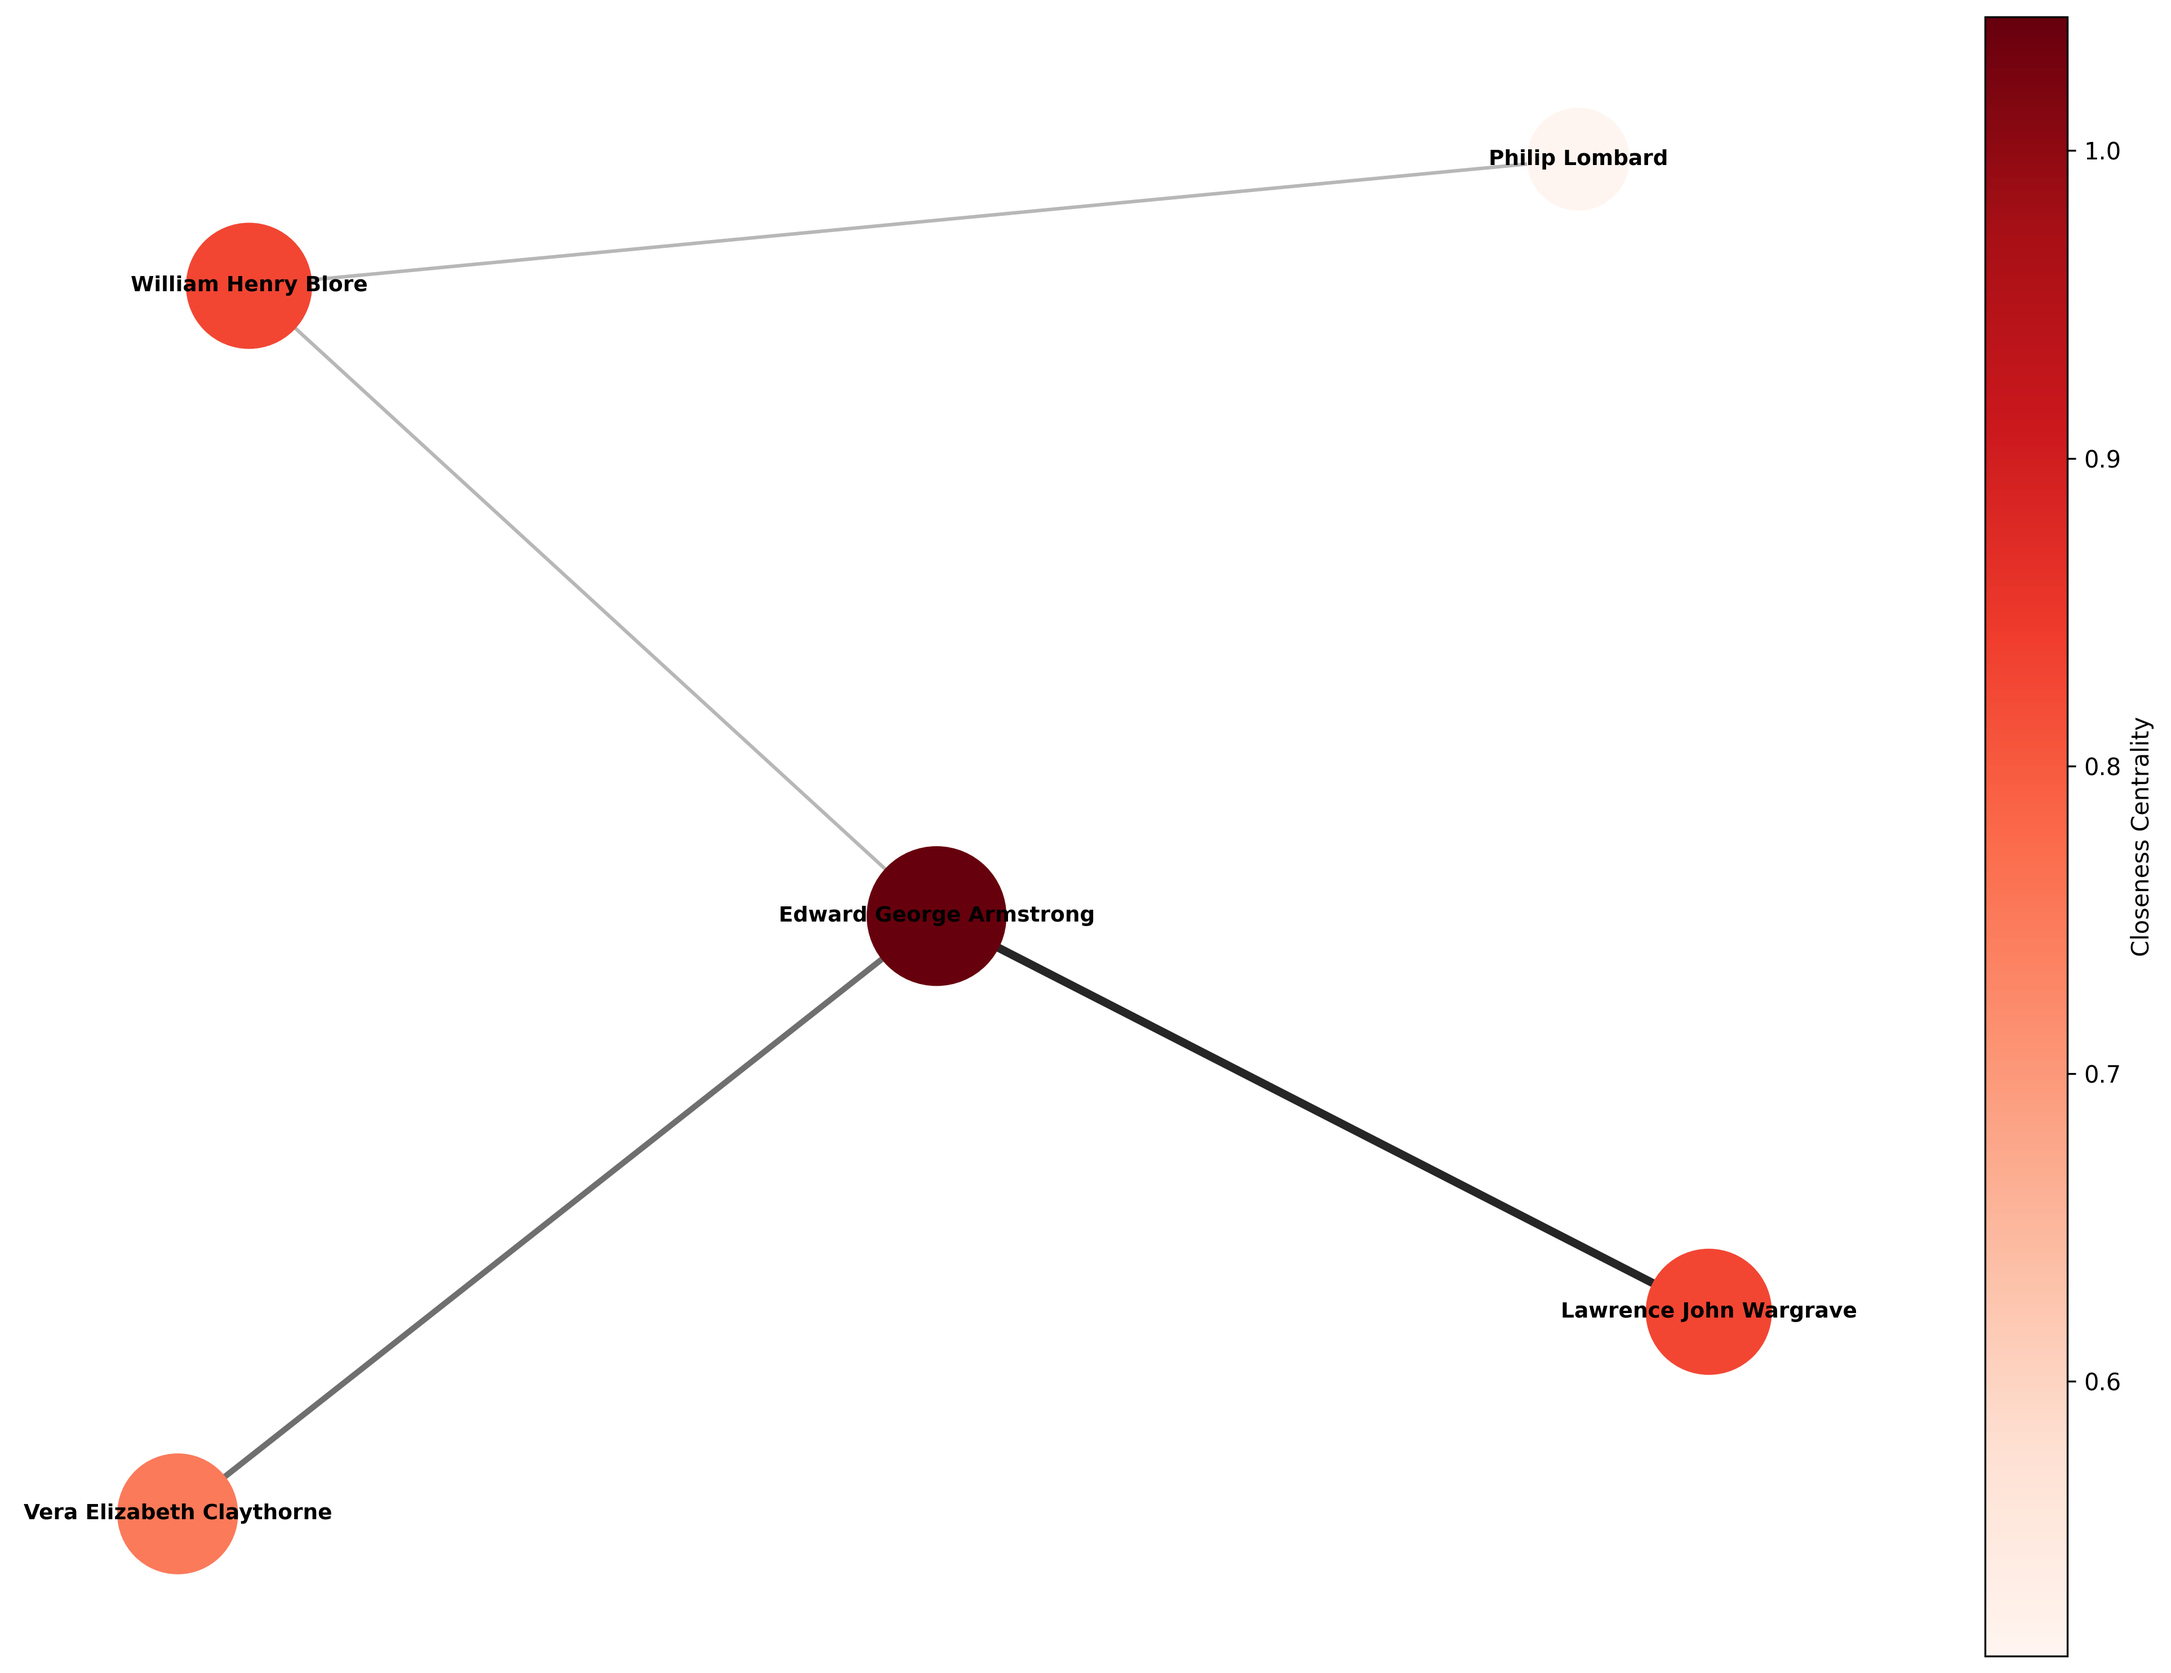
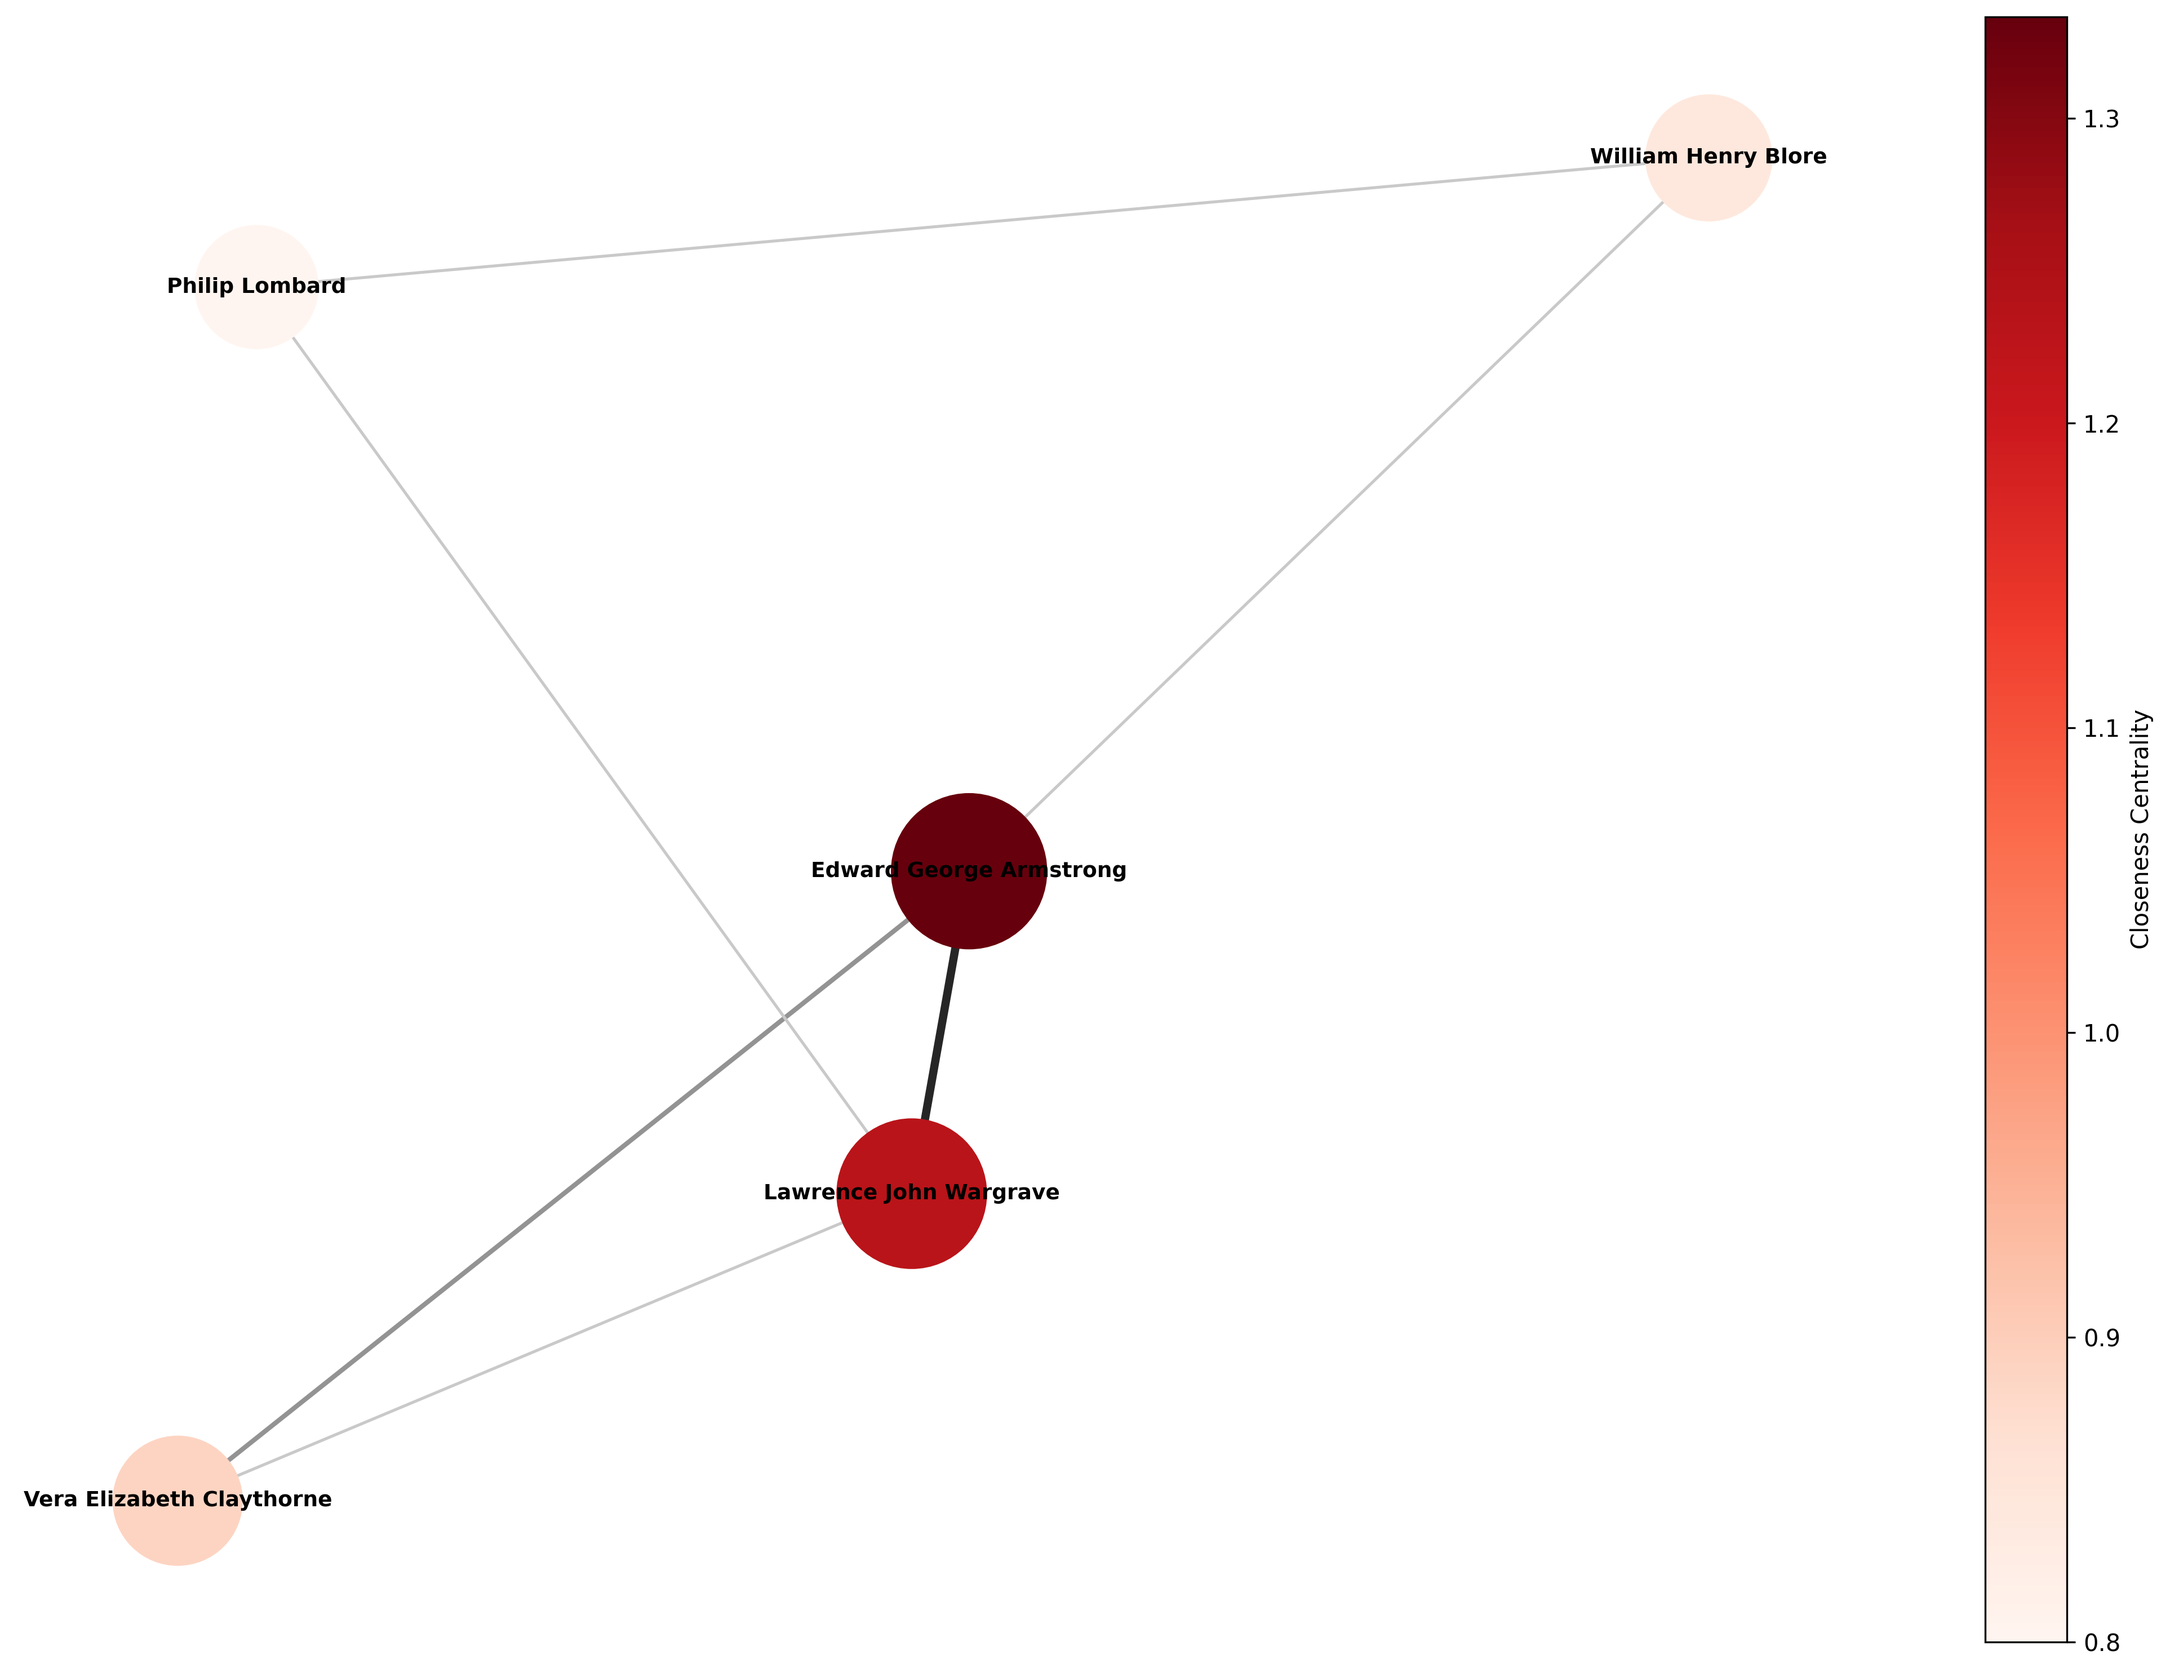
new images

diff --git a/network_analysis/na.py b/network_analysis/na.py
@@ -57,14 +57,14 @@ deaths={'1_marston':[(),(1,1292)],
 
 new_deaths={'1_marston':[(0, 17462),()],    
         '2_ethel_rogers':[(17463, 21069),()],
-        '3_macarthur':[(21076, 32904),()],
-        '4_thomas_rogers':[(32905, 41437),()],
-        '5_brent':[(41444, 45356),()],
-        '6_wargrave':[(45362, 50820),()],
+        '3_macarthur':[(21071, 32904),()],
+        '4_thomas_rogers':[(32905, 41438),()],
+        '5_brent':[(41439, 45357),()],
+        '6_wargrave':[(45358, 50820),()],
         '7_blore':[(50821, 58126),()],
-        '8_armstrong':[(58127, 59105),()],
-        '9_lombard':[(59111, 59935),()],
-        '10_claythorne':[(59941, 60963),()]
+        '8_armstrong':[(58127, 59107),()],
+        '9_lombard':[(59108, 59936),()],
+        '10_claythorne':[(59937, 60964),()]
         }
 
 main_characters=["Philip Lombard",
@@ -598,6 +598,32 @@ def calculate_closeness_evolution(graphs_list):    # the graph_list must be base
 
 
 GREEN     = "#2ca02c"
+
+
+def create_png_multidigraph(G, filename='graph.png'):
+    """
+    Crea un'immagine PNG del multidigraph con etichette sugli edges basate sull'attributo 'label'.
+
+    Parametri:
+    - G: networkx.MultiDiGraph
+    - filename: str, percorso del file PNG da salvare
+    """
+    pos = nx.spring_layout(G, k=1.5, iterations=50, seed=42)
+    fig, ax = plt.subplots(figsize=(14, 10))
+    nx.draw(G, pos, with_labels=True, node_size=800, font_size=10, node_color='skyblue', edge_color='gray', ax=ax)
+    
+    edge_labels = {}
+    for u, v, key, data in G.edges(keys=True, data=True):
+        label = data.get('label', '')
+        edge_labels[(u, v, key)] = label
+    
+    nx.draw_networkx_edge_labels(G, pos, edge_labels, font_size=7, ax=ax)
+    
+    plt.title('Multidigraph Visualization with Edge Labels')
+    plt.axis('off')
+    plt.savefig(filename, dpi=300, bbox_inches='tight')
+    plt.close()
+    print(f"Grafo salvato come {filename}")
 RED       = "#d62728"
 GRAY      = "#999999"
 WIDTH_MIN = 0.5

diff --git a/network_analysis/main.py b/network_analysis/main.py
@@ -2,18 +2,19 @@ import networkx as nx
 from na import *
 
 story={'story':[(0,60964),()]}
+story_splitted={'before_trial':[(0,32904),()], 'from_trial':[(32905,60964),()]}
 
 
-
-graphs_list=full_analysis(file="network_analysis/data/processed_triples.csv",     #if you want wargrave and owen as the same node, you can imput the file edge_list.csv
-                            division=new_deaths,                    #here you can also put division=blocks or division=chapters as parameters
-                            only_main_characters=False,          #here you choose if the nodes are only the ten protagonists or not
+graphs_list=full_analysis(file="network_analysis/data/processed_triples_updated.csv",     #if you want wargrave and owen as the same node, you can imput the file edge_list.csv
+                            division=story,                    #here you can also put division=blocks or division=chapters as parameters
+                            only_main_characters=True,          #here you choose if the nodes are only the ten protagonists or not
                             visualization=True,                 #this creates the images in a folder entitled 'networks'
                             analysis=False,                     #this prints the measures results
-                            sentiment=True)                   #special parameter, only for returning graphs with sentiment 
+                            sentiment=False)                   #special parameter, only for returning graphs with sentiment 
 
+create_png_multidigraph(graphs_list[0])
 
-calculate_sentiment_evolution(graphs_list)
+#calculate_sentiment_evolution(graphs_list)
 
 print('\n\nDONE! 🥳🎉')
 #nx.write_gexf(G, 'graph.gexf')  #If you activate this operation, you get a file you can put in GEPHI software and there you can perform further analysis
